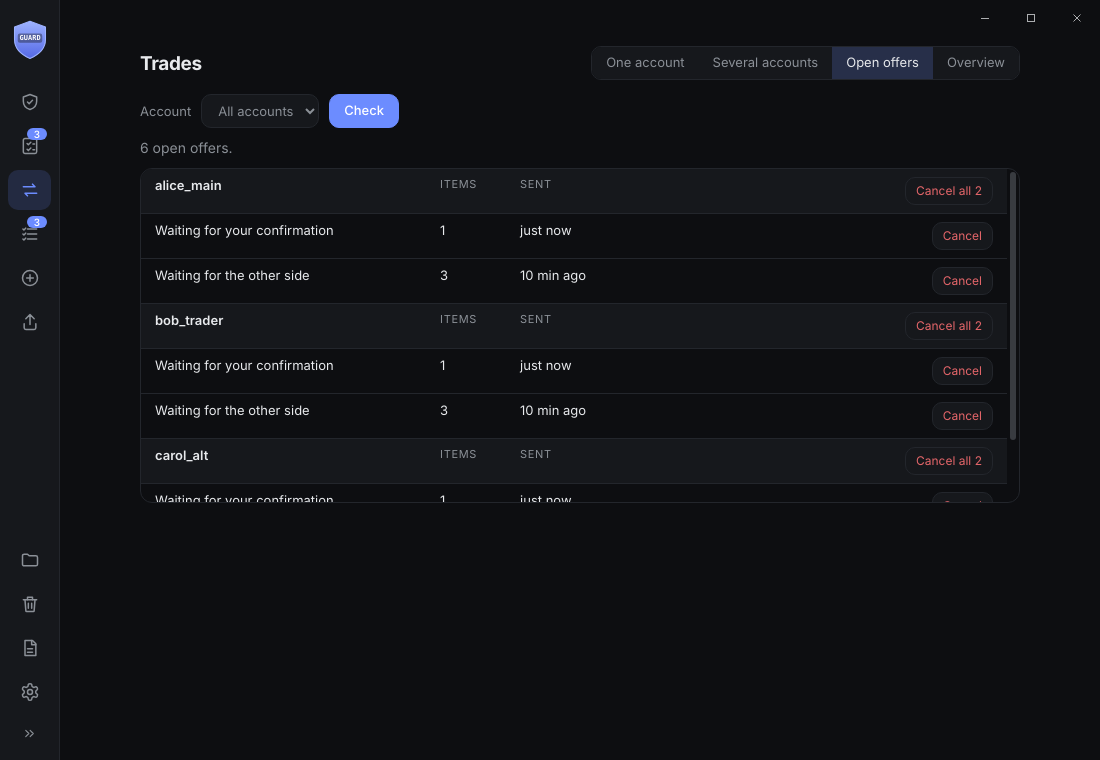
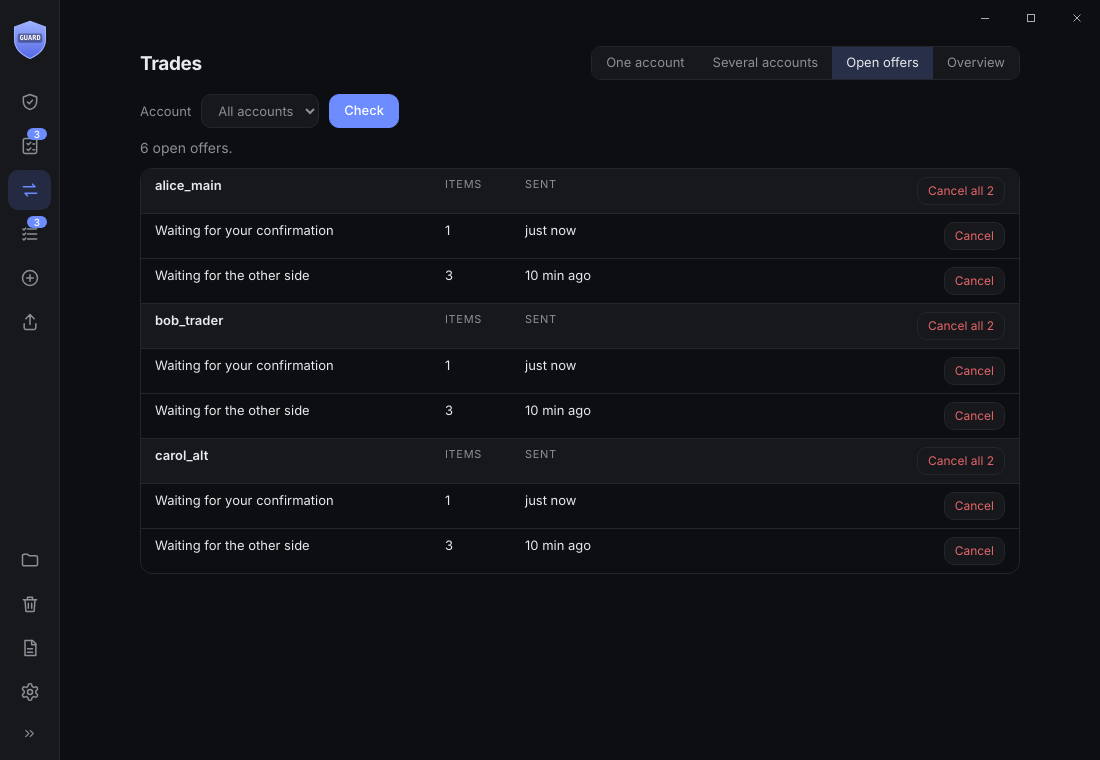
One-line trade check, full-height offers and overview lists
Claude-Session: https://claude.ai/code/session_01DW1HzNu7DPUhuZ6F8TPH3n

diff --git a/src/renderer/main.ts b/src/renderer/main.ts
@@ -2498,7 +2498,7 @@ async function tradesScreen(wanted?: string): Promise<void> {
 					const r = await api.tradeCheck(id);
 					b.disabled = false;
 					if (!alive()) return;
-					checkBox.replaceChildren(...(r.ok ? r.value.map((l) => el('div', { class: `health ${l.level}` }, el('span', { class: 'hint', textContent: `${l.level === 'ok' ? '✓' : l.level === 'warn' ? '!' : '✕'} ${l.text}` }))) : [el('p', { class: 'hint error', textContent: r.error })]));
+					checkBox.replaceChildren(...(r.ok ? verdict(r.value) : [el('p', { class: 'hint error', textContent: r.error })]));
 				} })),
 			checkBox,
 			...(tradeNotes(me).length ? [el('p', { class: 'hint warnline', textContent: `This account may not be able to trade: ${tradeNotes(me).join('. ')}.` })] : []),
@@ -2515,6 +2515,17 @@ async function tradesScreen(wanted?: string): Promise<void> {
 }
 
 /** What may stop an account from trading, for the Trades tab. */
+/** One answer instead of a list: can it trade, and if not or not sure, why. */
+const verdict = (lines: { level: 'ok' | 'warn' | 'bad'; text: string }[]): HTMLElement[] => {
+	const bad = lines.filter((l) => l.level === 'bad');
+	const warn = lines.filter((l) => l.level === 'warn');
+	const head = bad.length ? ['bad', '✕ Cannot trade right now'] : warn.length ? ['warn', '! Can trade, but watch out'] : ['ok', '✓ Can trade now'];
+	return [
+		el('div', { class: `health ${head[0]}` }, el('strong', { textContent: head[1] })),
+		...[...bad, ...warn].map((l) => el('div', { class: `health ${l.level}` }, el('span', { class: 'hint', textContent: l.text }))),
+		el('p', { class: 'hint fine', textContent: 'Based on the sign-in, the public profile and the ban check. Steam has the final say.' })
+	];
+};
 const tradeNotes = (a: Row): string[] => [...a.restrictions, ...a.bans.filter((b) => b.startsWith('Trade')).map((b) => `${b}: Steam blocks or limits trading`)];
 const field = (label: string, control: HTMLElement): HTMLElement => el('label', { class: 'labelled' }, el('span', { textContent: label }), control);
 const sleep = (ms: number): Promise<void> => new Promise((done) => window.setTimeout(done, ms));
@@ -2528,7 +2539,7 @@ function offersScreen(all: Row[]): void {
 	let busy = false;
 	const sel = el('select', { ariaLabel: 'Account' }, el('option', { value: '', textContent: 'All accounts' }), ...all.map((a) => el('option', { value: a.steamId, textContent: accountLabel(a.name, a.nickname) })));
 	const status = el('p', { class: 'hint', textContent: 'Shows offers sent from an account that nobody has accepted yet, for example after a bulk send. Cancel them here instead of on Steam.' });
-	const out = el('div', { class: 'bulk-table' });
+	const out = el('div', { class: 'bulk-table tall' });
 	const go = el('button', { class: 'small primary', type: 'button', textContent: 'Check' });
 
 	function draw(a: Row, offers: { id: string; state: 'waiting' | 'confirm'; items: number; created: number }[]): void {
@@ -2574,7 +2585,7 @@ function offersScreen(all: Row[]): void {
 		if (alive() && !status.textContent?.endsWith('Stopped.') && !(list.length === 1 && status.textContent && !status.textContent.startsWith('Checking'))) status.textContent = found ? `${found} open offer${found === 1 ? '' : 's'}.` : 'No open offers.';
 	}
 	go.addEventListener('click', () => void check());
-	show(tradesHeader(), el('main', { class: 'send' }, el('div', { class: 'send-from' }, el('span', { textContent: 'Account' }), sel, go), status, out));
+	show(tradesHeader(), el('main', { class: 'send fill' }, el('div', { class: 'send-from' }, el('span', { textContent: 'Account' }), sel, go), status, out));
 }
 
 /** What every account holds in one game, read one account at a time. */
@@ -2587,7 +2598,7 @@ function overviewScreen(all: Row[]): void {
 	const gameSel = el('select', { ariaLabel: 'Game' }, ...GAME_CHOICES.map(([k, name]) => el('option', { value: k, textContent: name })));
 	gameSel.addEventListener('change', () => { if (!busy) game = gameSel.value; else gameSel.value = game; });
 	const status = el('p', { class: 'hint', textContent: 'Reads each account\'s inventory one after another, with a short pause so Steam does not slow you down. 68 accounts take about 1 to 2 minutes.' });
-	const table = el('div', { class: 'bulk-table' });
+	const table = el('div', { class: 'bulk-table tall' });
 	const go = el('button', { class: 'small primary', type: 'button', textContent: 'Read all inventories' });
 	const stopBtn = el('button', { class: 'small', type: 'button', textContent: 'Stop', hidden: true, onclick: () => { stop = true; } });
 	type Line = { a: Row; tradable?: number; locked?: number; error?: string };
@@ -2637,7 +2648,7 @@ function overviewScreen(all: Row[]): void {
 	go.addEventListener('click', () => void readAll());
 	draw();
 	table.replaceChildren();
-	show(tradesHeader(), el('main', { class: 'send' }, el('div', { class: 'send-bar' }, field('Game', gameSel), go, stopBtn), status, table));
+	show(tradesHeader(), el('main', { class: 'send fill' }, el('div', { class: 'send-bar' }, field('Game', gameSel), go, stopBtn), status, table));
 }
 
 /** Send every tradeable item of one game from several accounts to one receiver. */

diff --git a/src/renderer/style.css b/src/renderer/style.css
@@ -611,3 +611,10 @@ select { padding-right: 8px; }
 .check-box .health.warn .hint { color: var(--warn); }
 .check-box .health.bad .hint { color: var(--danger); }
 .bulk-row.head .acct { text-transform: none; letter-spacing: 0; font-size: 13px; font-weight: 600; color: var(--text); }
+.bulk-table.tall { max-height: none; flex: 1; min-height: 0; }
+.check-box .health strong { font-size: 14px; }
+.check-box .health.ok strong { color: var(--ok, #4cc38a); }
+.check-box .health.warn strong { color: var(--warn); }
+.check-box .health.bad strong { color: var(--danger); }
+main.fill { display: flex; flex-direction: column; overflow: hidden; padding-bottom: 16px; }
+main.fill > .hint { flex: none; }

diff --git a/CHANGELOG.md b/CHANGELOG.md
@@ -22,8 +22,8 @@
 - Trades: hover an account in the sender list and click the small crossed-circle to leave it out of "Select all shown" (remembered in `data/meta.json`; you can still tick it by hand).
 - Trading and market restrictions: an account Steam marks as limited (under $5 spent; no Community Market and no trading of Steam Community items, game items like CS2 can still be traded) or whose authenticator is less than 15 days old (in the first 7 days trades and market listings can be held up to 15 days, CS2 items are not held; an account that had no Steam Guard before can be blocked from trading and the market, CS2 too, until day 15) gets a small coin icon in the list, a "Trading and market" section on its page, and a warning in the Trades tab (sender list and single-account view); trade bans and probation are included there too.
 - Log: a "Trades" filter shows every trade, with each offer's items in the details (count per item name), who sent to whom, and whether it was confirmed.
-- Trades tab, check: "Check account" says whether an account can trade now (session accepted, trade link present, bans, limits, new authenticator).
-- Trades tab, open offers: lists the offers an account (or all accounts) sent that nobody accepted yet, with Cancel and Cancel all. Uses Steam's trade offer service with the account's own sign-in, so no API key. Not tested against live Steam.
+- Trades tab, check: "Check account" gives one answer: Can trade now, Can trade but watch out, or Cannot trade right now, with the reasons underneath (session, bans, limits, new authenticator).
+- Trades tab, open offers: lists the offers an account (or all accounts) sent that nobody accepted yet, with Cancel and Cancel all, in a list that uses the full window height. Uses Steam's trade offer service with the account's own sign-in, so no API key. Not tested against live Steam.
 - Trades tab, overview: reads every account's inventory one after another (1.2 s apart, stops on a rate limit) and shows tradable and locked items per account with a total. Click an account to send from it.
 - Backup and restore (Settings, Import and updates): one file with every maFile, saved password, note and tag, sealed with AES-256-GCM and a password you choose (8 or more characters). Restoring only adds accounts that are missing and never changes existing ones.
 - One control size everywhere: inputs, drop-downs, buttons, filter chips, tabs and switches share the same height and text size. Fixed the Confirmations list being squeezed after the trade tiles were added.
